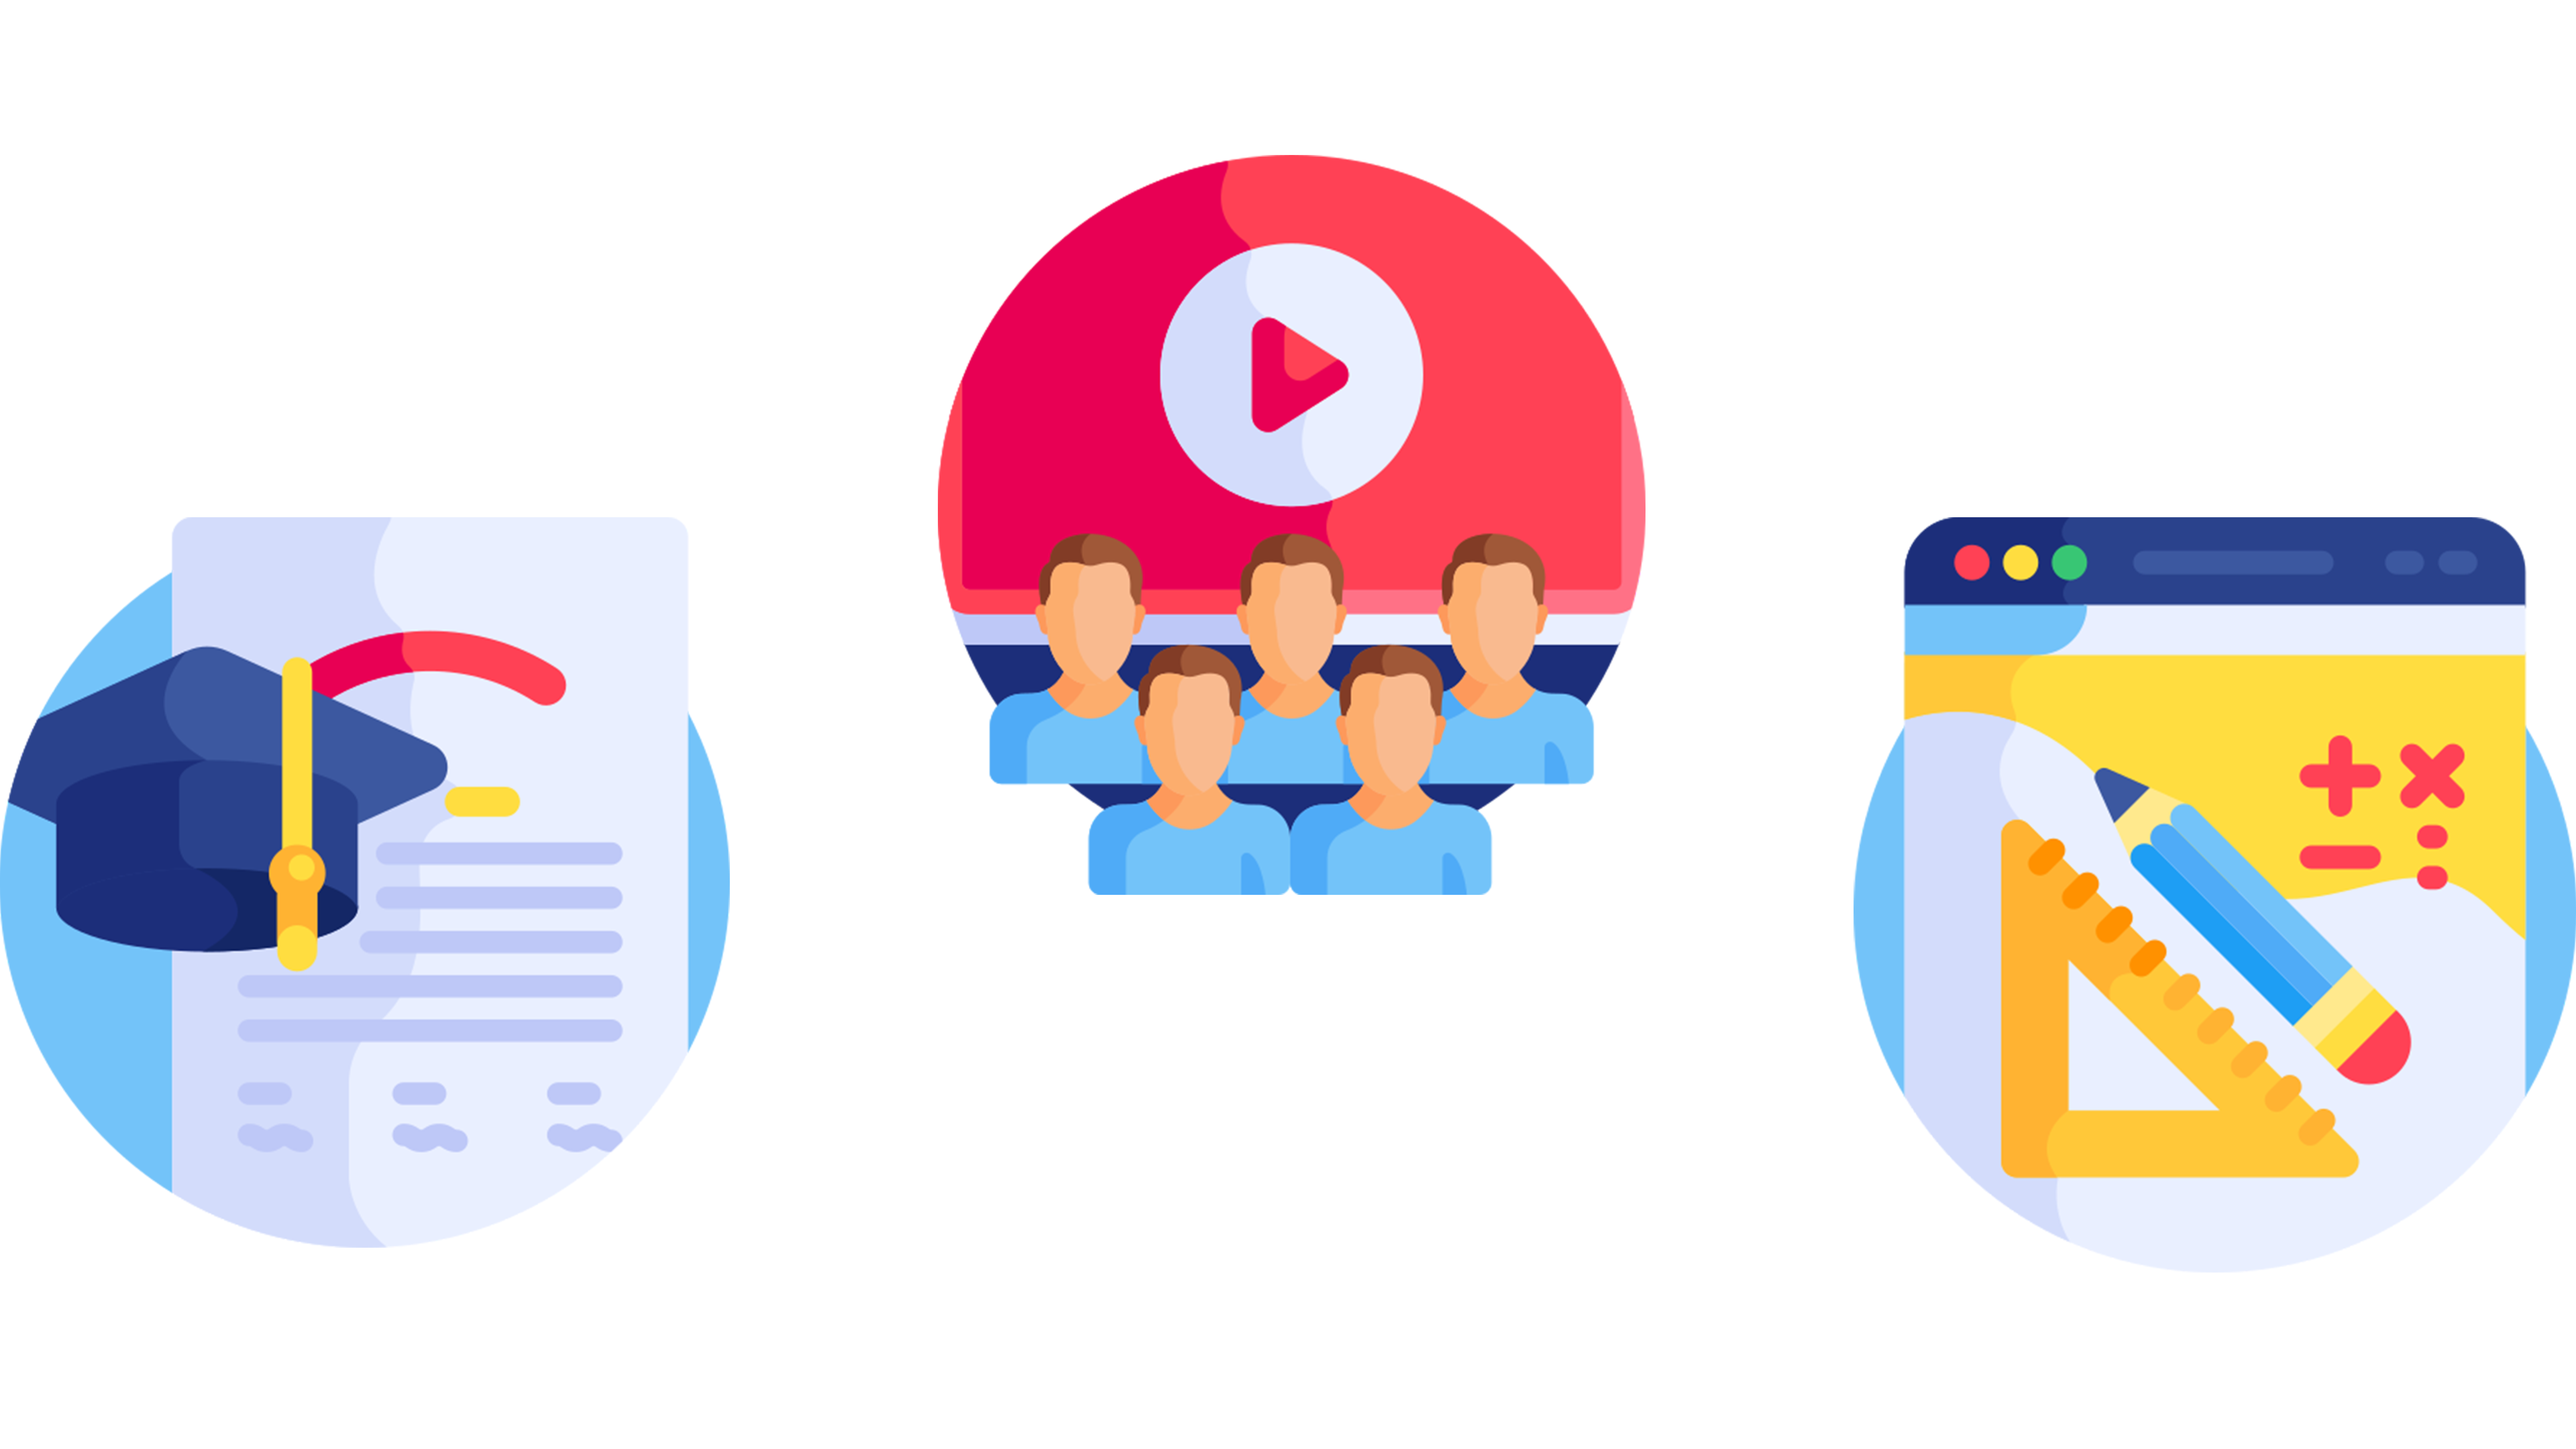
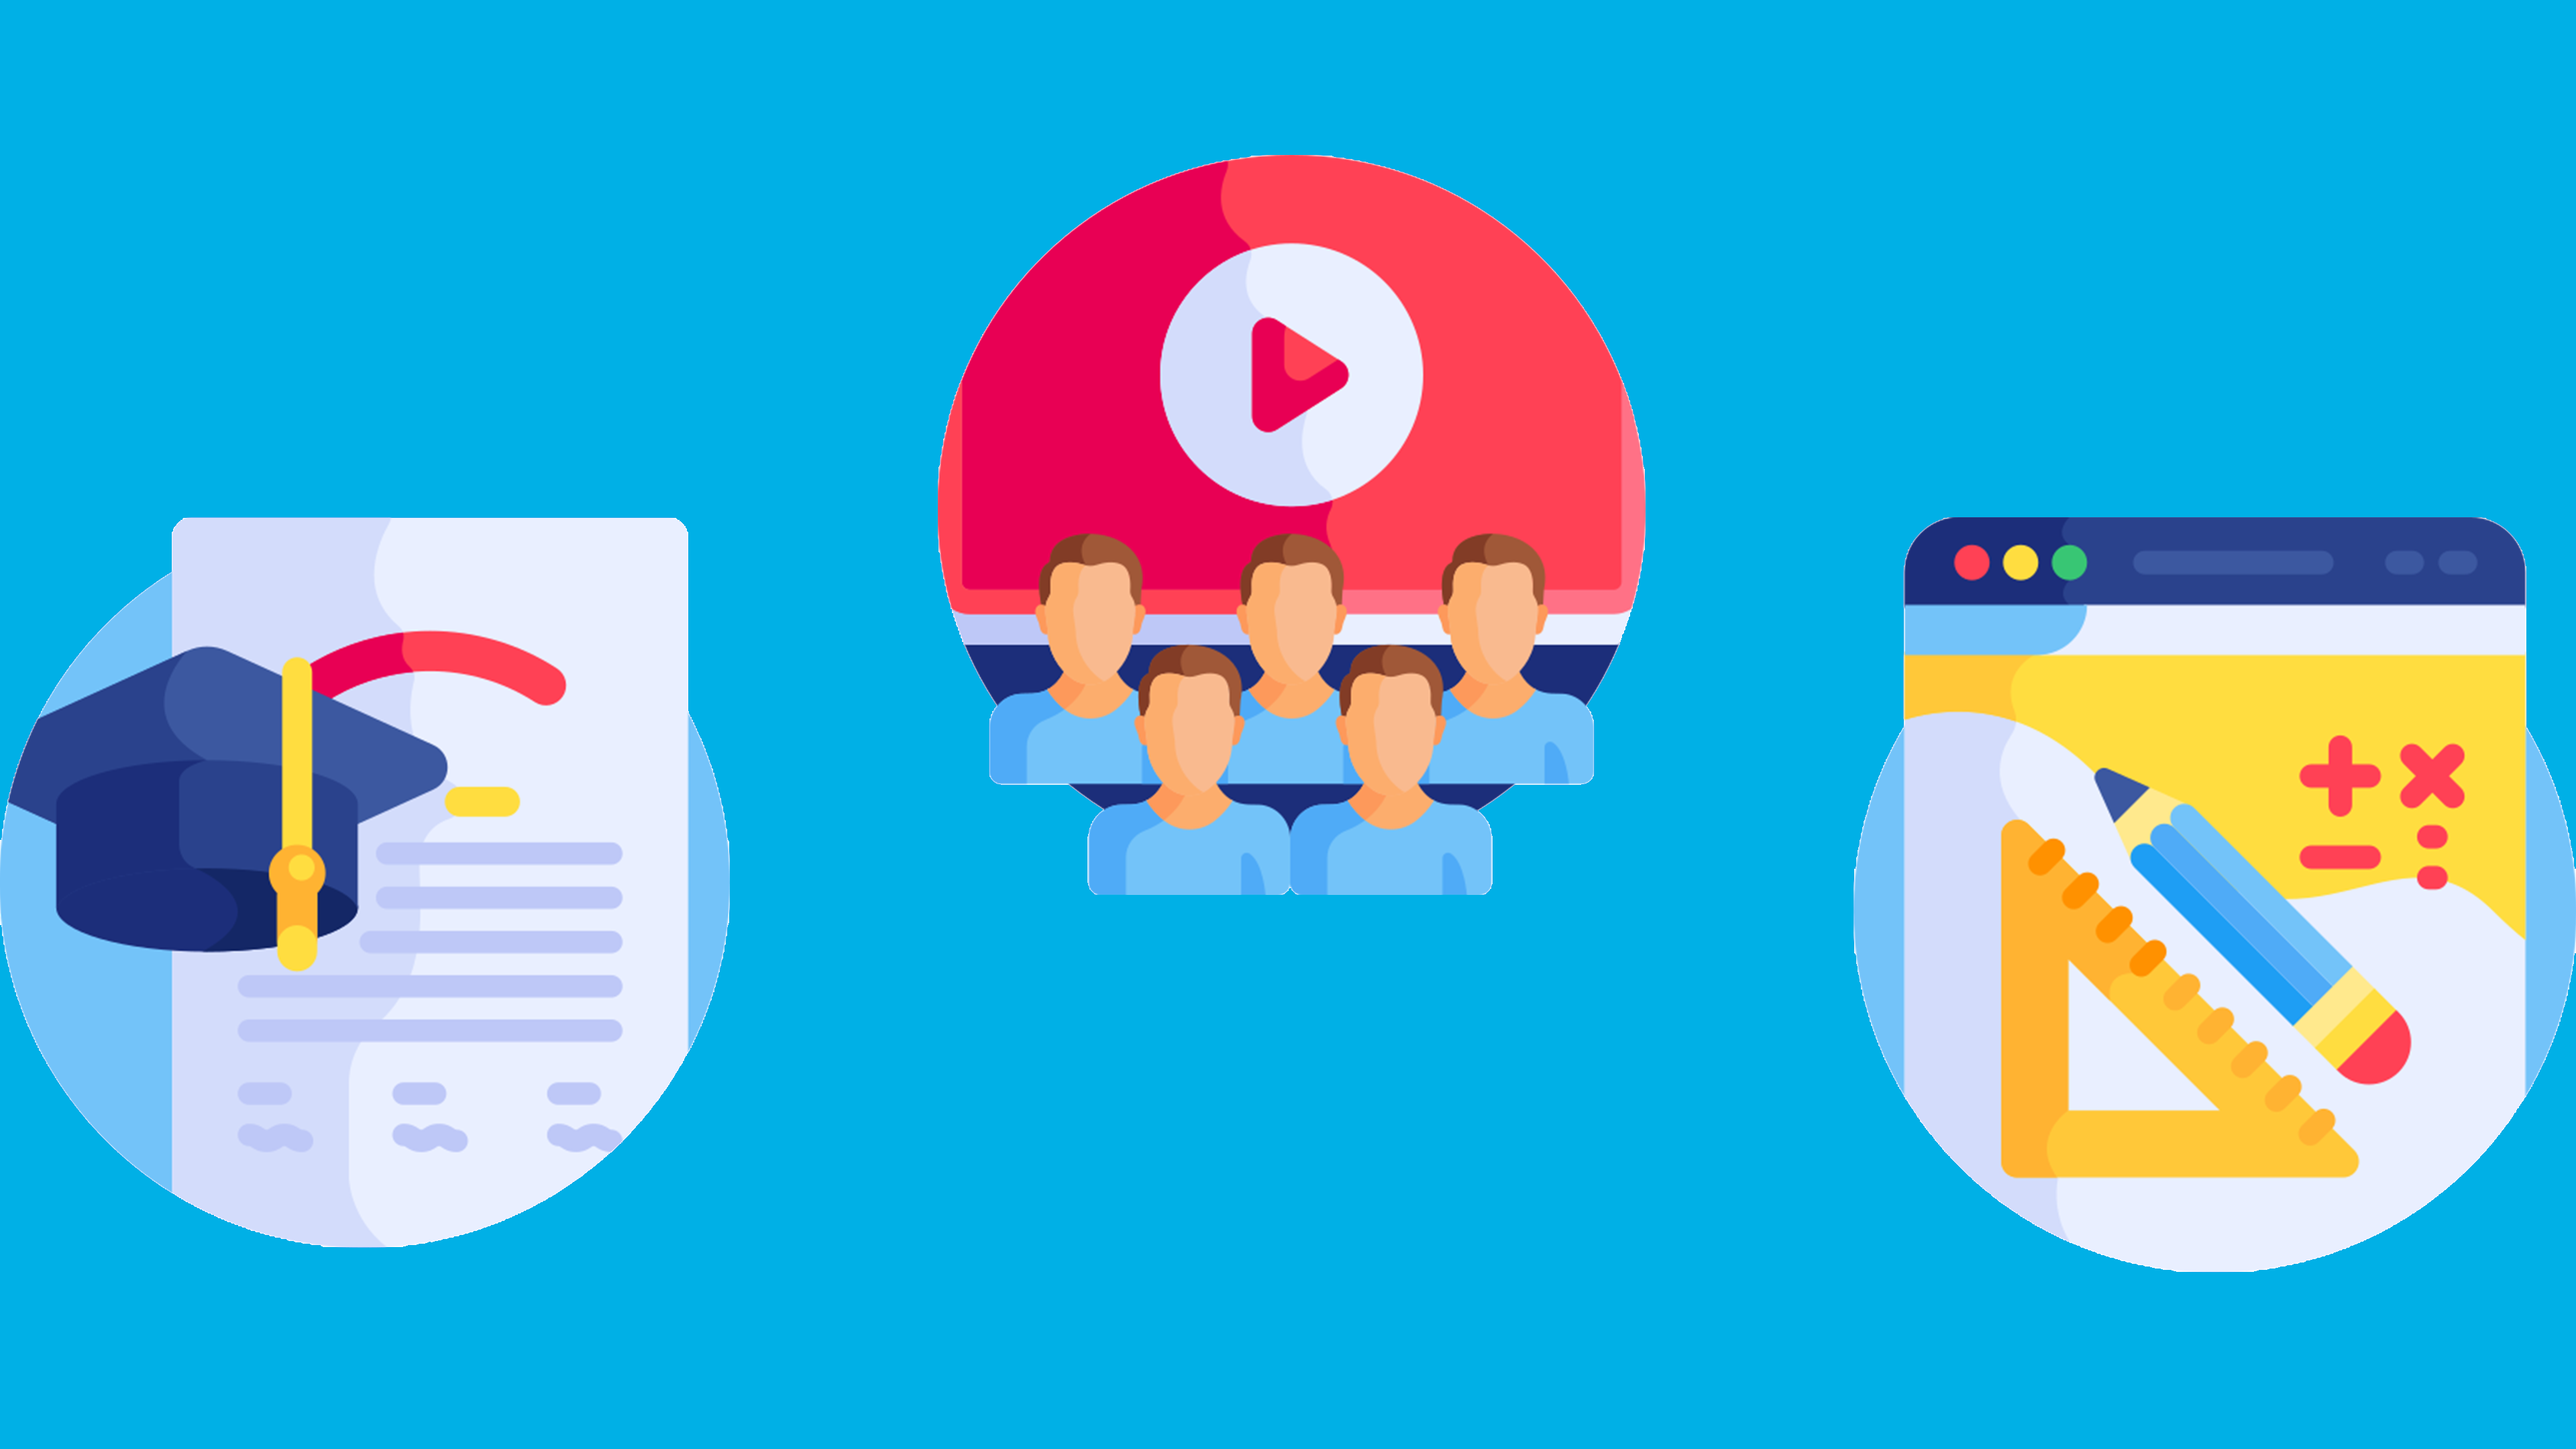
deug

diff --git a/style/main.css b/style/main.css
@@ -69,14 +69,14 @@ body {
   -webkit-box-pack: center;
       -ms-flex-pack: center;
           justify-content: center;
-  height: 85px;
+  height: 75px;
   width: 100vw;
-  background-color: rgba(249, 249, 249, 0.959);
+  background-color: white;
   border-bottom: 0.5px solid #dbdbdb;
 }
 
 .brandlogo {
-  width: 100px;
+  width: 88px;
   -ms-flex-item-align: center;
       -ms-grid-row-align: center;
       align-self: center;
@@ -101,6 +101,7 @@ body {
   -ms-flex-item-align: center;
       -ms-grid-row-align: center;
       align-self: center;
+  padding-top: 4px;
 }
 
 .navitems > a > li {
@@ -142,6 +143,7 @@ body {
   font-size: 18px;
   color: #616161;
   font-weight: 600;
+  padding-top: 4px;
 }
 
 .pageheader {
@@ -164,17 +166,28 @@ body {
   }
 }
 
+.pageheaderbg {
+  background-color: #00b0e6;
+  width: 100%;
+  padding-bottom: 60px;
+}
+
 .leftpageheader {
   width: 500px;
   -ms-flex-item-align: center;
       -ms-grid-row-align: center;
       align-self: center;
   padding-top: 40px;
+  color: white;
+  font-style: italic;
 }
 
 .leftpageheader > h1 {
   line-height: 1.3em;
+  font-style: normal;
   font-size: 40px;
+  color: white;
+  text-shadow: 1px 1px 0 #055770, 1px 1px 1px #02465a;
 }
 
 @media screen and (max-width: 1000px) {
@@ -248,6 +261,7 @@ body {
     font-size: 15.5px;
     text-align: center;
     padding: 0px;
+    padding-top: 30px;
   }
 }
 
@@ -300,17 +314,17 @@ body {
 
 .studentbox {
   border: 1px solid;
-  border-color: rgba(0, 89, 255, 0.185);
+  border-color: rgba(24, 103, 206, 0.24);
 }
 
 .teacherbox {
   border: 1px solid;
-  border-color: rgba(18, 145, 12, 0.185);
+  border-color: rgba(70, 197, 38, 0.411);
 }
 
 .parentbox {
   border: 1px solid;
-  border-color: rgba(199, 7, 224, 0.185);
+  border-color: rgba(200, 27, 231, 0.212);
 }
 
 .container {

diff --git a/style/_pageheader.scss b/style/_pageheader.scss
@@ -4,7 +4,6 @@
   margin-top: 80px;
   padding: 20px;
   padding-bottom: 0px;
-  ;
 
   @media screen and (max-width:1000px) {
     flex-direction: column;
@@ -12,14 +11,26 @@
 
 }
 
+.pageheaderbg {
+  background-color: rgb(0, 176, 230);
+  width: 100%;
+  padding-bottom: 60px;
+}
+
 .leftpageheader {
   width: 500px;
   align-self: center;
   padding-top: 40px;
+  color: white;
+  font-style: italic;
 
   &>h1 {
     line-height: 1.3em;
+    font-style: normal;
     font-size: 40px;
+    color: white;
+    text-shadow: 1px 1px 0 rgb(5, 87, 112),
+      1px 1px 1px rgb(2, 70, 90);
 
     @media screen and (max-width:1000px) {
       font-size: 25px;
@@ -79,6 +90,7 @@
     font-size: 15.5px;
     text-align: center;
     padding: 0px;
+    padding-top: 30px;
   }
 }
 
@@ -115,15 +127,15 @@
 
 .studentbox {
   border: 1px solid;
-  border-color: rgba(0, 89, 255, 0.185);
+  border-color: rgba(24, 103, 206, 0.24);
 }
 
 .teacherbox {
   border: 1px solid;
-  border-color: rgba(18, 145, 12, 0.185);
+  border-color: rgba(70, 197, 38, 0.411);
 }
 
 .parentbox {
   border: 1px solid;
-  border-color: rgba(199, 7, 224, 0.185);
+  border-color: rgba(200, 27, 231, 0.212);
 }

diff --git a/index.html b/index.html
@@ -36,16 +36,18 @@
         </div>
       </div>
     </div>
-    <div class="content_container pageheader">
-      <div class="leftpageheader">
-        <h1>Next level K-5 education begins here</h1>
-        <div>Teaching will never be the same. Our platform offers adaptive learning,
-          class management, course design, and just about anything you can think of.
+    <div class="pageheaderbg pagecontainer">
+      <div class="content_container pageheader">
+        <div class="leftpageheader">
+          <h1>Next level K-5 education is here</h1>
+          <div>Teaching with tech will never be the same. We unify adaptive learning,
+            class management, course design, and many more.
 
 
+          </div>
         </div>
+        <div class="rightpageheader"><img src="Untitled.png" alt=""></div>
       </div>
-      <div class="rightpageheader"><img src="Untitled.png" alt=""></div>
     </div>
     <div class="content_container ourmissioncontainer">
       <div class="ourmissiontitle">

diff --git a/style/_navbar.scss b/style/_navbar.scss
@@ -3,15 +3,16 @@
   position: fixed;
   flex-direction: row;
   justify-content: center;
-  height: 85px;
+  height: 75px;
   width: 100vw;
-  background-color: rgba(249, 249, 249, 0.959);
+  background-color: rgb(255, 255, 255);
   border-bottom: 0.5px solid rgb(219, 219, 219);
 }
 
 .brandlogo {
-  width: 100px;
+  width: 88px;
   align-self: center;
+
 }
 
 .navitems {
@@ -24,6 +25,7 @@
 .navitems>a {
   text-decoration: none;
   align-self: center;
+  padding-top: 4px;
 }
 
 .navitems>a>li {
@@ -58,4 +60,5 @@
   font-size: 18px;
   color: rgb(97, 97, 97);
   font-weight: 600;
+  padding-top: 4px;
 }
